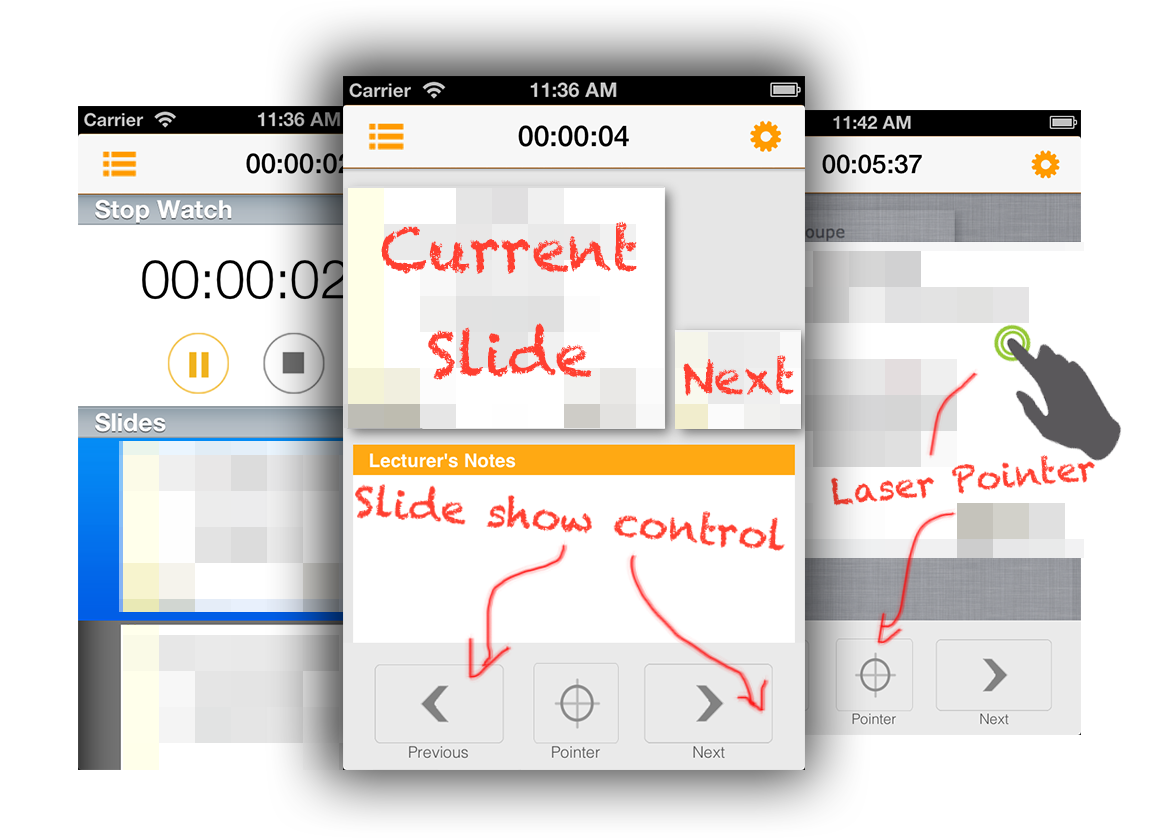
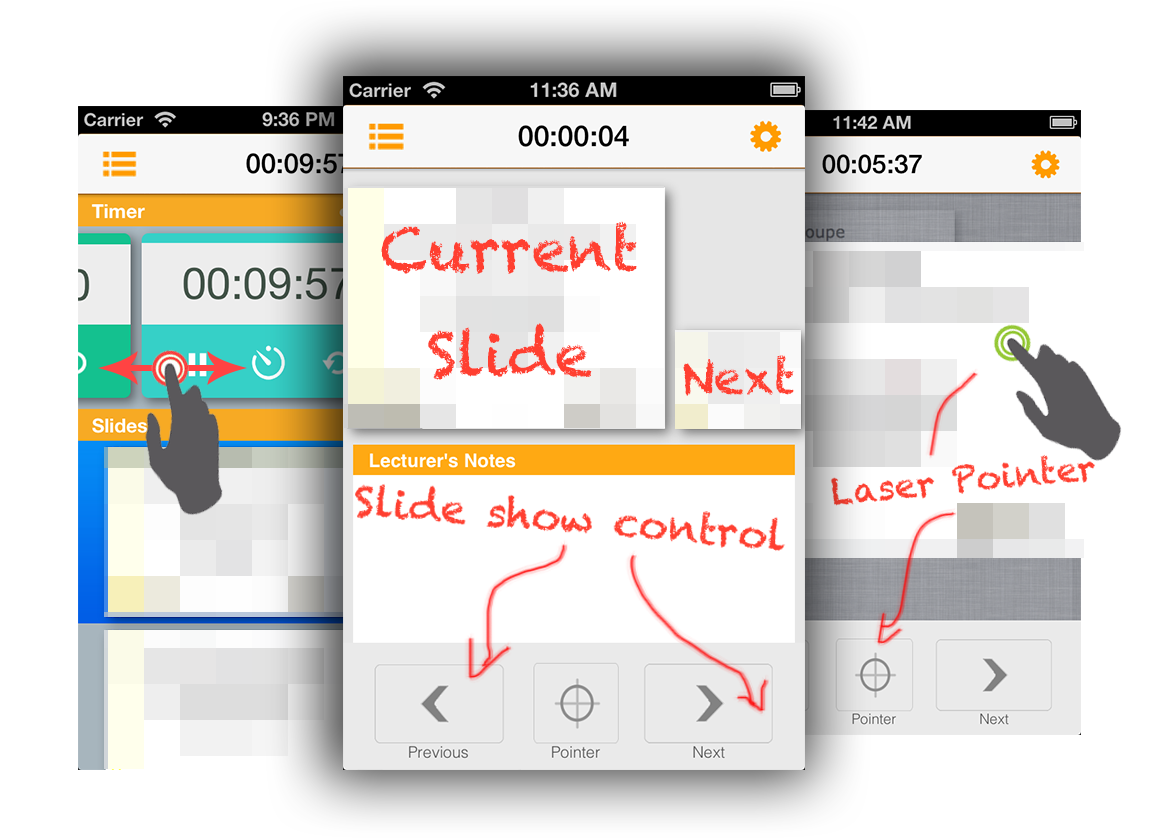
ad-hoc bug fixes to handle different notes format on Linux/OSX

Changed region(s): [[0.062, 0.1862, 0.3098, 0.9308], [0.2169, 0.1241, 0.3098, 0.1551]]

diff --git a/ios/iosremote/iosremote/Communication/CommandInterpreter.m b/ios/iosremote/iosremote/Communication/CommandInterpreter.m
@@ -35,6 +35,7 @@ dispatch_queue_t backgroundQueue;
 
 // Received a set of instructions from server.
 - (void) parse:(NSArray*)command{
+//    NSLog(@"Command : %@", command);
     uint marker = 0;
     if ([command count] == 0) {
         return;
@@ -47,7 +48,6 @@ dispatch_queue_t backgroundQueue;
         marker = 2;
     }
     else if ([instruction isEqualToString:STATUS_PAIRING_PAIRED]){
-//        NSLog(@"Paired command: %@", command);
         [[NSNotificationCenter defaultCenter] postNotificationName:STATUS_PAIRING_PAIRED
                                                             object:nil];
         marker = 2;
@@ -86,7 +86,6 @@ dispatch_queue_t backgroundQueue;
             [[NSNotificationCenter defaultCenter] postNotificationName:MSG_SLIDE_CHANGED object:nil];
             marker = 3;
         } else if ([instruction isEqualToString:@"slide_preview"]){
-//            NSLog(@"Interpreter: slide_preview");
             backgroundQueue = dispatch_queue_create("com.libreoffice.iosremote", NULL);
             dispatch_async(backgroundQueue, ^(void) {
                 uint slideNumber = [[command objectAtIndex:1] integerValue];
@@ -96,13 +95,12 @@ dispatch_queue_t backgroundQueue;
             });
             marker = 4;
         } else if ([instruction isEqualToString:@"slide_notes"]){
-//            NSLog(@"Interpreter: slide_notes");
             backgroundQueue = dispatch_queue_create("com.libreoffice.iosremote", NULL);
             uint slideNumber = [[command objectAtIndex:1] integerValue];
             NSMutableString *notes = [[NSMutableString alloc] init];
             for (int i = 2; i<command.count; ++i) {
                 [notes appendString:[command objectAtIndex:i]];
-                if ([notes hasSuffix:@"</body>"]) {
+                if ([notes hasSuffix:@"</html>"] || [notes hasSuffix:@"</body>"]) {
                     marker = i+2;
                     break;
                 }

diff --git a/ios/iosremote/iosremote/Communication/Client.m b/ios/iosremote/iosremote/Communication/Client.m
@@ -207,6 +207,7 @@ int count = 0;
             backgroundQueue = dispatch_queue_create("com.libreoffice.iosremote", DISPATCH_QUEUE_CONCURRENT);
             dispatch_async(backgroundQueue, ^(void) {
                 NSArray *commands = [str componentsSeparatedByString:@"\n"];
+                NSLog(@"Commands: %@", commands);
                 [self.receiver parse:commands];
             });
             data = nil;
@@ -223,9 +224,7 @@ int count = 0;
     if(self.inputStream == nil && self.outputStream == nil)
         return;
     [self stopConnectionTimeoutTimer];
-//    NSLog(@"stream status i:%u o:%u", self.inputStream.streamStatus, self.outputStream.streamStatus);
     if ([self.inputStream streamStatus] != NSStreamStatusClosed) {
-//        NSLog(@"ci");
         [self.inputStream close];
     } else
         [self.inputStream removeFromRunLoop:[NSRunLoop currentRunLoop] forMode:NSDefaultRunLoopMode];

diff --git a/ios/iosremote/iosremote/Timer.m b/ios/iosremote/iosremote/Timer.m
@@ -37,6 +37,7 @@ int vibrationCount;
     self.state = TIMER_STATE_CLEARED;
     self.set = NO;
     secondsLeft = kCountDownTimerDefaultDuration * 60;
+    initSecondsLeft = secondsLeft;
     
     return self;
 }
@@ -54,6 +55,7 @@ int vibrationCount;
     self.timeLabel = timeLabel;
     
     [self setupActions];
+    [self clear];
     return self;
 }
 
@@ -63,8 +65,9 @@ int vibrationCount;
     self.clearButton = (UIButton *)[[cell viewWithTag:9] viewWithTag:3];
     self.setTimeButton = (UIButton *)[[cell viewWithTag:9] viewWithTag:4];
     self.timeLabel = (UILabel *)[[cell viewWithTag:9] viewWithTag:1];
-    
+
     [self setupActions];
+    [self clear];
 }
 
 - (void) setupActions

diff --git a/ios/iosremote/iosremote/AppDelegate.m b/ios/iosremote/iosremote/AppDelegate.m
@@ -69,7 +69,7 @@ blue:((float)(rgbValue & 0xFF))/255.0 alpha:1.0]
     kCountDownTimerAutoStart = [[NSUserDefaults standardUserDefaults] boolForKey:@"TIMER_AUTO_START"];
     kCountDownTimerVibration = [[NSUserDefaults standardUserDefaults] boolForKey:@"TIMER_VIBRATION"];
     
-    NSLog(@"Setting kDefaultTimerWidget to %d", kDefaultTimerWidget);
+    NSLog(@"Setting kCountDownTimerDefaultDuration to %d", kCountDownTimerDefaultDuration);
 }
 
 - (void)applicationWillResignActive:(UIApplication *)application

diff --git a/ios/iosremote/iosremote/Communication/SlideShow.m b/ios/iosremote/iosremote/Communication/SlideShow.m
@@ -147,7 +147,6 @@ NSString *sTitle;
 }
 
 - (void) putNotes: (NSString *)notes AtIndex: (uint) index{
-//    NSLog(@"Put note into %u", index);
     [self.notesDictionary setObject:notes forKey:[NSNumber numberWithUnsignedInt:index]];
     [[NSNotificationCenter defaultCenter] postNotificationName:@"storage_update_ready"
                                                         object:nil
